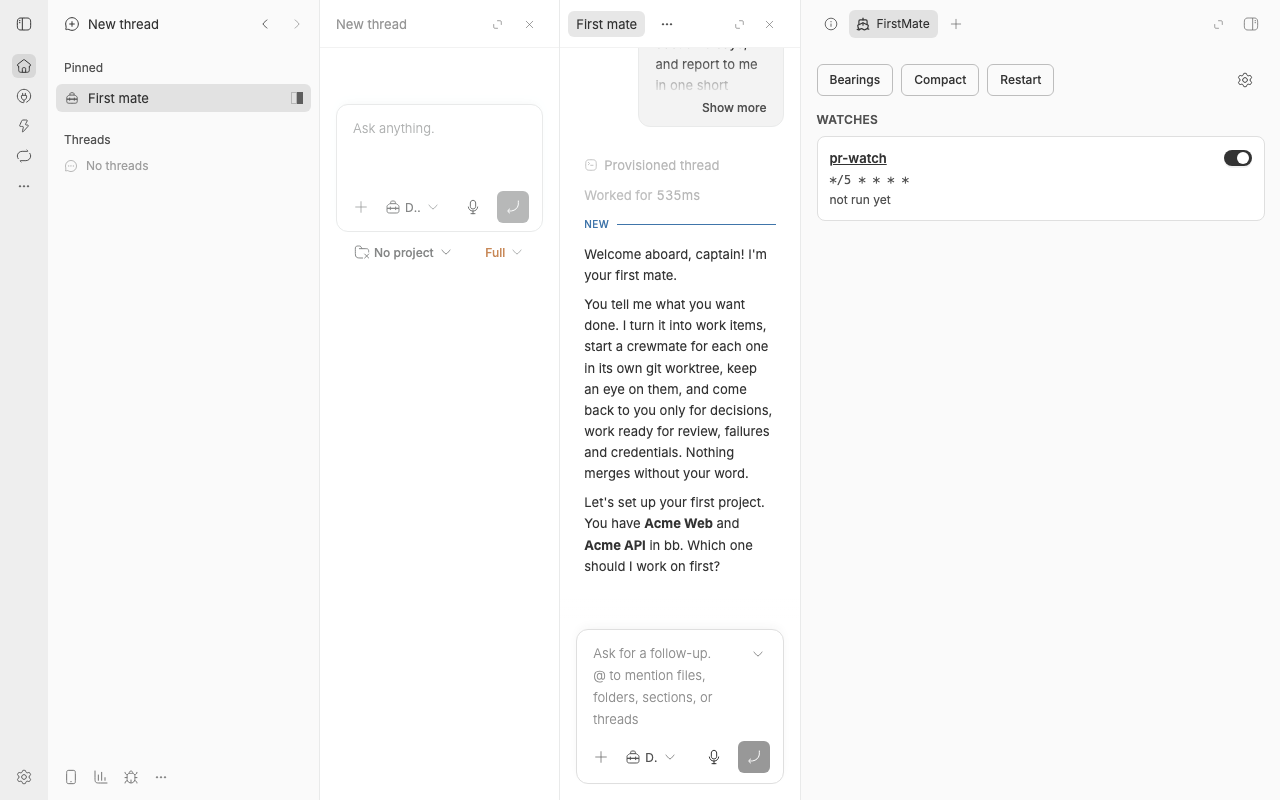
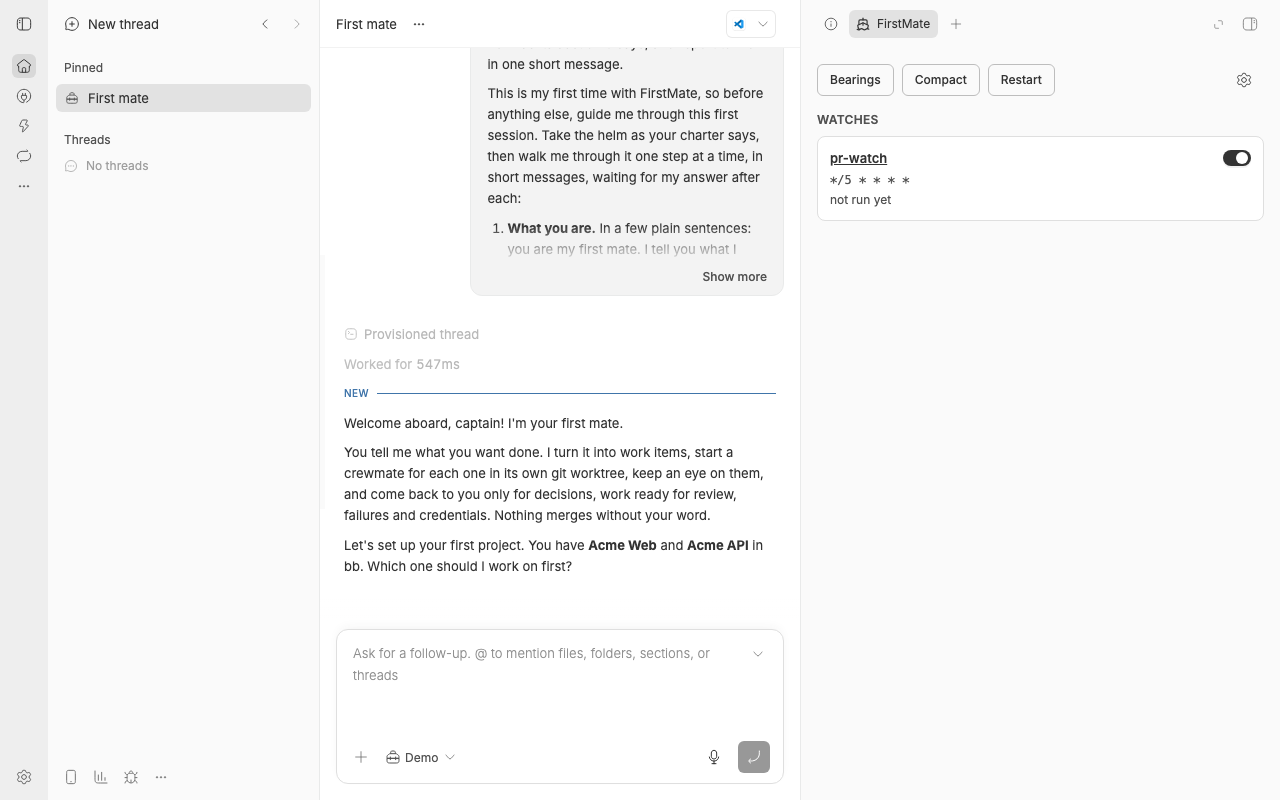
firstmate-crew: the guide opens the first mate in place, with no empty pane
The guide opened the first mate's thread with toThread(id, { split: true }),
which keeps the view the guide started from as a pane of its own: on a new
install, an empty New thread screen beside the first mate and its board. It
now navigates plainly, so the end state is the first mate's chat with the
FirstMate tab beside it. The shot list fails if an empty pane is left, and
the demo GIF and end-state still are re-recorded.

diff --git a/firstmate-crew/app/intro.tsx b/firstmate-crew/app/intro.tsx
@@ -1,8 +1,8 @@
 /**
  * The first-run guide: a toast that offers it to a new install, and the three-step setup it opens —
  * the first mate's home folder, its model and machine, and the start. Starting launches the first mate
- * with the first-session prompt (`intro.start`), opens its thread beside the current view, and opens the
- * FirstMate tab there.
+ * with the first-session prompt (`intro.start`), opens its thread in place of the current view, and opens
+ * the FirstMate tab beside it.
  *
  * Whether to offer it is the server's (`server/intro.ts`); "Later" is this window's (`intro-store.ts`).
  * Everything here lives in one app overlay, so the dialog can open over any page.
@@ -14,6 +14,7 @@ import {
   useComposer,
   useRpc,
   useSdk,
+  type BbNavigate,
   type ExperimentalProviderModelPickerValue,
 } from "@get-bb/plugin-sdk/app";
 import { useEffect, useRef, useState, useSyncExternalStore } from "react";
@@ -341,7 +342,7 @@ export function IntroDialog({
 
 /**
  * Opens the FirstMate tab in the first mate's thread once its composer is on screen, the guide having
- * just opened the thread in a split pane. A composer contribution that draws nothing, because only a
+ * just opened the thread (`showFirstMate`). A composer contribution that draws nothing, because only a
  * component inside the thread's view gets that view's panel controller: an app overlay's opens no pane's.
  * bb mounts the pane a moment after the guide asks for it, so it tries again briefly.
  */
@@ -376,6 +377,18 @@ export function BoardOpener() {
     };
   }, [boardFor, threadId]);
   return null;
+}
+
+/**
+ * The guide's end: the first mate's thread in place of the view the guide was started from, with the
+ * FirstMate tab beside it (`BoardOpener`). Plain navigation, never `split`: a split keeps that view as a
+ * pane of its own, and on a new install that is an empty New thread screen.
+ */
+export function showFirstMate(navigate: Pick<BbNavigate, "toThread">, threadId: string): void {
+  introStore.close();
+  introStore.showBoardFor(threadId);
+  navigate.toThread(threadId);
+  toast.success("Your first mate is aboard.");
 }
 
 /**
@@ -426,10 +439,7 @@ export function IntroOverlay() {
   useEffect(() => () => void toast.dismiss(INTRO_TOAST_ID), []);
 
   function started(threadId: string): void {
-    introStore.close();
-    introStore.showBoardFor(threadId);
-    navigate.toThread(threadId, { split: true });
-    toast.success("Your first mate is aboard.");
+    showFirstMate(navigate, threadId);
   }
 
   if (!open) return null;

diff --git a/firstmate-crew/app/intro.test.tsx b/firstmate-crew/app/intro.test.tsx
@@ -8,7 +8,7 @@ import { renderSlot } from "@get-bb/plugin-sdk/testing/app";
 import { toast } from "sonner";
 import { afterEach, beforeEach, describe, expect, it, vi } from "vitest";
 
-import { BoardOpener, INTRO_TOAST_ID, INTRO_TOAST_TITLE, IntroOverlay, looksLikeHome } from "./intro";
+import { BoardOpener, INTRO_TOAST_ID, INTRO_TOAST_TITLE, IntroOverlay, looksLikeHome, showFirstMate } from "./intro";
 import { createIntroStore, introStore } from "./intro-store";
 import { findLocalHostId } from "./local-host";
 
@@ -66,6 +66,17 @@ describe("the offer's toast", () => {
     expect(introStore.get().snoozed).toBe(true);
     await waitFor(() => expect(toastMock.dismiss).toHaveBeenCalledWith(INTRO_TOAST_ID));
     expect(view.rpcCalls.map((call) => call.method)).not.toContain("intro.dismiss");
+  });
+});
+
+describe("the guide's end", () => {
+  it("opens the first mate's thread in place of the current view, never as a split beside it", () => {
+    introStore.open();
+    const toThread = vi.fn();
+    showFirstMate({ toThread }, "thr_mate");
+    // A split would keep the view the guide started from as a pane of its own: an empty New thread screen.
+    expect(toThread.mock.calls).toEqual([["thr_mate"]]);
+    expect(introStore.get()).toMatchObject({ open: false, boardFor: "thr_mate" });
   });
 });
 

diff --git a/firstmate-crew/README.md b/firstmate-crew/README.md
@@ -45,10 +45,10 @@ parent is set so that the first mate isn't told when it finishes._
 
 _The board on a phone, where it takes the screen over the chat._
 
-![The first-run guide: the "Start using FirstMate?" toast, Start, the home folder, the model and machine, Start the first mate, and the first mate's chat opening beside the view with the FirstMate board, where it welcomes the captain and asks which project to work on first](docs/screenshots/first-run-demo.gif)
+![The first-run guide: the "Start using FirstMate?" toast, Start, the home folder, the model and machine, Start the first mate, and the first mate's chat opening with the FirstMate board beside it, where it welcomes the captain and asks which project to work on first](docs/screenshots/first-run-demo.gif)
 
-_The first-run guide, right after installing: three short steps, then the first mate opens beside you
-with its board and shows you around._
+_The first-run guide, right after installing: three short steps, then the first mate's chat opens with
+its board beside it and the first mate shows you around._
 
 ## What you need
 
@@ -87,8 +87,8 @@ there, and `bb plugin dev` to rebuild on save. See [`AGENTS.md`](AGENTS.md).
      choose another. Use a new or empty folder; the desktop app has a **Browse…** button.
    - **Model and machine**: the agent that will be your first mate. It runs on the machine bb runs on,
      next to its home folder; your crew can still work in projects on your other machines.
-   - **Start the first mate**: FirstMate starts it, opens its chat beside the view you are in with the
-     **FirstMate** board, and the first mate walks you through your first session: what it does, your
+   - **Start the first mate**: FirstMate starts it, opens its chat with the **FirstMate** board beside
+     it, and the first mate walks you through your first session: what it does, your
      first project, and a first small task.
 
    **Later** asks again the next time you open bb; **Don't ask again** stops asking. Either way, the guide

diff --git a/firstmate-crew/AGENTS.md b/firstmate-crew/AGENTS.md
@@ -312,8 +312,10 @@ Do not break these; each was paid for.
   crewmate — the ones idle long enough to be compacted — would drop to Idle. `lastText` stays the latest
   turn's reply: quiet shipshape needs exactly that. The charter's §0 gives the first mate the same
   fallback as a `bb thread log … | jq` query.
-- **The guide's board opens from inside the first mate's thread.** The guide opens the thread with
-  `useBbNavigate().toThread(id, { split: true })`, then has to open the FirstMate tab in *that* pane. An
+- **The guide's board opens from inside the first mate's thread.** The guide opens the thread with a
+  plain `useBbNavigate().toThread(id)` (`showFirstMate`), never `split: true`: a split keeps the view the
+  guide started from as a pane of its own, which on a new install is an empty New thread screen. Then it
+  has to open the FirstMate tab in the thread's pane. An
   app overlay's `experimental_useAppPanel()` opens no pane's panel (bb 0.49, tried live), so a composer
   contribution that draws nothing (`BoardOpener`, scope `thread`) opens it from the thread's own view once
   its composer's scope names the thread, retrying for five seconds while bb mounts the pane.

diff --git a/firstmate-crew/CHANGELOG.md b/firstmate-crew/CHANGELOG.md
@@ -11,8 +11,8 @@ follow [Semantic Versioning](https://semver.org/spec/v2.0.0.html).
 
 - **A guided first session.** Right after installing FirstMate, a toast asks *Start using FirstMate?*
   *Start* opens a short setup: where the first mate keeps its home folder, which model it uses and which
-  machine it runs on. Then FirstMate starts the first mate, opens its chat beside the view you are in with
-  the FirstMate board, and the first mate walks you through your first session: what it does, your first
+  machine it runs on. Then FirstMate starts the first mate, opens its chat with the FirstMate board beside
+  it, and the first mate walks you through your first session: what it does, your first
   project and a first small task. *Later* asks again the next time you open bb; *Don't ask again* stops
   asking. If FirstMate was already set up, you are never asked.
 - **FirstMate: get started** in the command palette, **Guided setup…** in FirstMate's settings and

diff --git a/AGENTS.md b/AGENTS.md
@@ -457,7 +457,8 @@ the surface the component renders in, and an `experimental_appOverlay` renders i
 `toThread(id, { split: true })` its `openTab` showed nothing (bb 0.49). To open a tab in the thread just
 opened, render a component inside that thread's view, such as a composer contribution that draws nothing,
 and open it from there once `useComposer().scope` names the thread (`firstmate-crew/app/intro.tsx`,
-`BoardOpener`).
+`BoardOpener`). Plain `toThread(id)` replaces the current view; `split: true` keeps it as a pane of its
+own beside the thread, even when it is only an empty New thread screen.
 
 **A composer that is not on screen cannot be written to.** `useComposers()` lists only the composers
 showing, and a nav panel shows none. To put text in a thread's draft from a page, hand it to an
